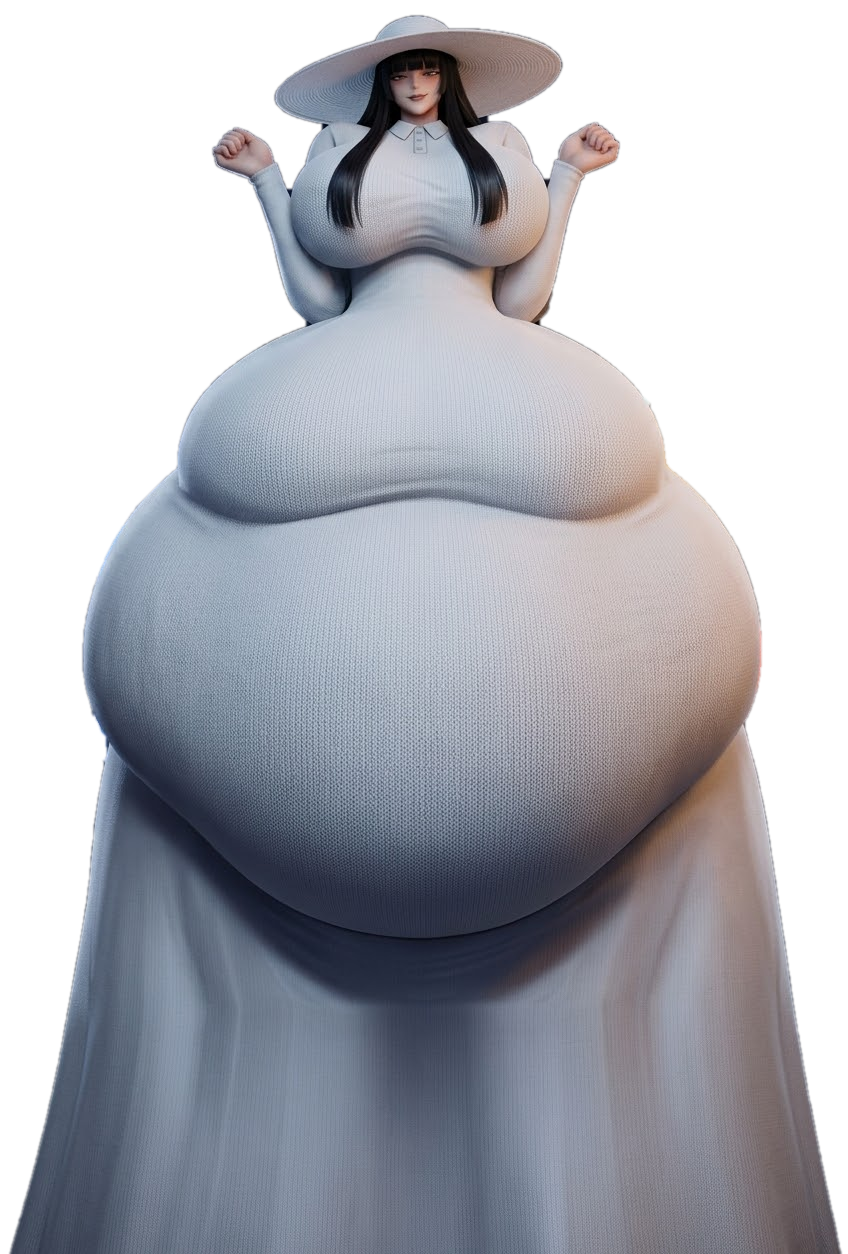
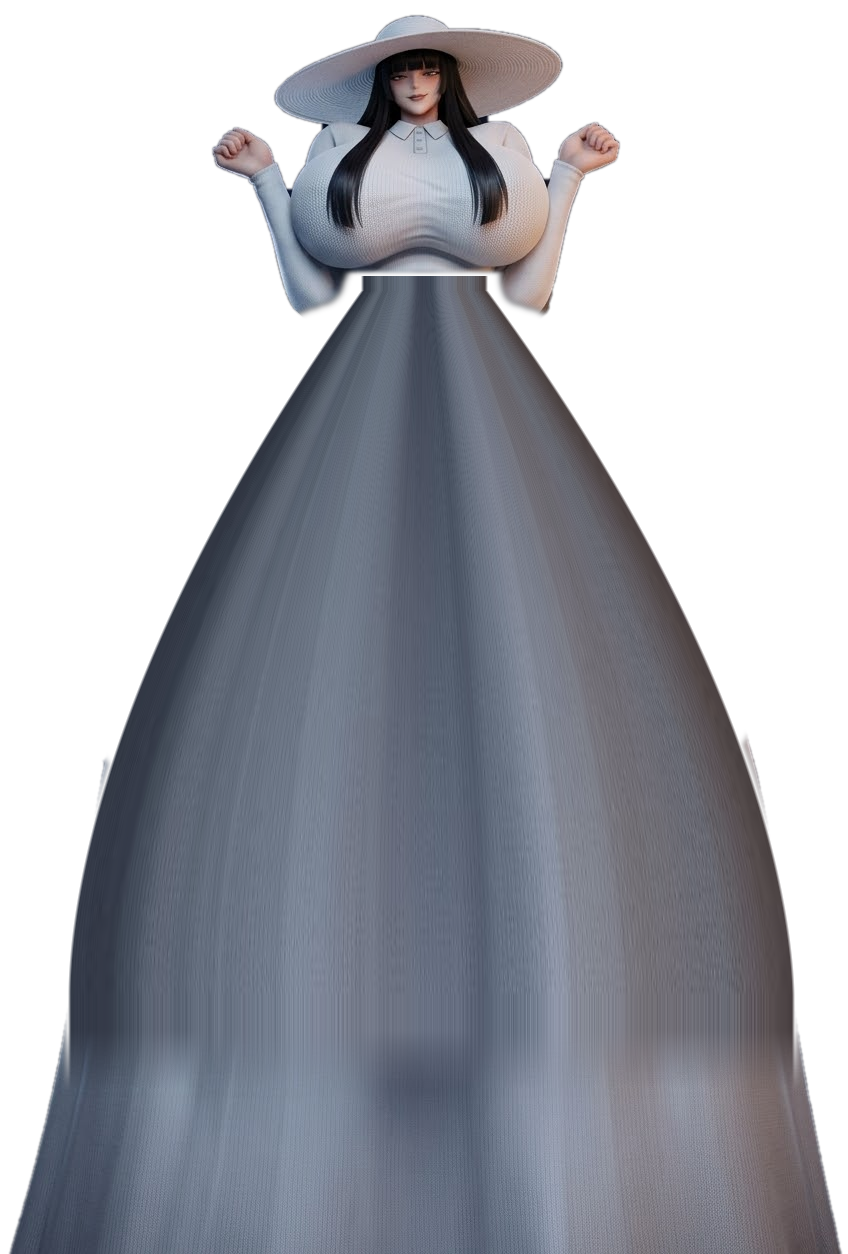
お腹が大きくなった時に元のお腹が見える不具合を修正
- 下半身レイヤー(body.png)から元のお腹を消し、ワンピースの続き(スカート生地)で埋めた
- お腹の揺れ(つぶれ)を控えめにして形が丸く保たれるように
- 検証用スクリプト tools/verify_belly.js を追加

diff --git a/tools/verify_belly.js b/tools/verify_belly.js
@@ -1,0 +1,24 @@
+// Screenshots at several belly levels and wobble phases while walking: node tools/verify_belly.js
+const puppeteer = require('puppeteer-core');
+const PORT = process.env.PORT || 8932;
+(async () => {
+  const b = await puppeteer.launch({ executablePath: '/usr/bin/google-chrome', headless: 'new', args: ['--use-gl=angle', '--use-angle=swiftshader', '--enable-unsafe-swiftshader', '--autoplay-policy=no-user-gesture-required', '--no-sandbox'] });
+  const p = await b.newPage(); await p.setViewport({ width: 1280, height: 720 });
+  const errs = []; p.on('console', m => { if (m.type() === 'error') errs.push(m.text()); }); p.on('pageerror', e => errs.push(e.message));
+  await p.goto(`http://localhost:${PORT}/`); await p.waitForFunction('window.__ready === true', { timeout: 90000 });
+  await p.click('#startBtn'); await new Promise(r => setTimeout(r, 1500));
+  const sleep = ms => new Promise(r => setTimeout(r, ms));
+  for (const lvl of [1, 3, 6, 10]) {
+    await p.evaluate((lvl) => { const d = window.__dbg; while (d.H.stage < lvl - 1) d.stageUp(); d.H.state = 'grow'; d.H.stateT = 0.01; }, lvl);
+    await sleep(3500);
+    for (let k = 0; k < 3; k++) {
+      await p.evaluate(() => { const { H, player } = window.__dbg; player.inv = 99; const R = 0.92 * 340 / 1254 * H.height * H.bodyS * H.bellyS; H.pos.set(player.pos.x, 0, player.pos.z - (14 + R * 2.6)); H.state = 'chase'; H.vel.set(0, 0, 3); player.yaw = 0; player.pitch = 0.18 + Math.min(0.35, H.stage * 0.03); });
+      await sleep(400 + k * 230);
+      if (k === 2) await p.evaluate(() => { const J = window.__dbg.H.jig; J.vy += 2.5; J.vx += 2.2; J.rip = 1.5; });
+      await sleep(k === 2 ? 90 : 0);
+      const info = await p.evaluate(() => { const { H } = window.__dbg; return { st: H.stage + 1, jy: +H.jig.y.toFixed(3), jx: +H.jig.x.toFixed(3), walk: +H.walk.toFixed(2), belly: +H.bellyS.toFixed(2) }; });
+      const f = `shots/belly_L${lvl}_${k}.png`; await p.screenshot({ path: f }); console.log(f, JSON.stringify(info));
+    }
+  }
+  console.log('ERRORS:', errs.length ? errs.join('\n') : 'none'); await b.close();
+})();

diff --git a/js/main.js b/js/main.js
@@ -738,7 +738,7 @@ function updateHasshaku(dt) {
   const prev = H.phase; H.phase += dt * Math.max(H.speed, 0.0) / stride * Math.PI;
   if (Math.floor(prev / Math.PI) !== Math.floor(H.phase / Math.PI) && H.walk > 0.2) { // footfall
     const d = dist; const it = clamp((1.4 - d / 45) * (0.6 + H.stage * 0.12), 0.05, 1.6);
-    SFX.step(Math.min(it, 1)); addShake(0.12 * it); jiggle(0.03 + 0.006 * H.stage, 0.035); puff(H.pos.x, 0.2, H.pos.z, 2, R * 0.6);
+    SFX.step(Math.min(it, 1)); addShake(0.12 * it); jiggle(0.03 + 0.002 * Math.min(H.stage, 10), 0.03); puff(H.pos.x, 0.2, H.pos.z, 2, R * 0.6);
   }
   // growth springs
   H.bellyV += ((H.bellyT - H.bellyS) * 30 - H.bellyV * 5) * dt; H.bellyS += H.bellyV * dt;
@@ -746,7 +746,7 @@ function updateHasshaku(dt) {
   // belly jiggle spring (bigger belly = slower, heavier wobble)
   const k = 70 / Math.sqrt(H.bellyS * H.bodyS), c = 3.2;
   const J = H.jig; J.vy += (-J.y * k - J.vy * c) * dt; J.y += J.vy * dt; J.vx += (-J.x * k - J.vx * c) * dt; J.x += J.vx * dt; J.rip *= Math.exp(-dt * 2.2);
-  J.y = clamp(J.y, -0.12, 0.12); J.x = clamp(J.x, -0.2, 0.2);
+  J.y = clamp(J.y, -0.07, 0.07); J.x = clamp(J.x, -0.09, 0.09); // keep wobble soft so the shape stays round
   // expression by mood
   const mood = H.stage + H.irr;
   if (H.state === 'chase') setExpr(mood < 0.55 ? 'smile' : mood < 2.6 ? 'irritated' : 'angry');

diff --git a/tools/make_body_nobelly.py b/tools/make_body_nobelly.py
@@ -1,0 +1,35 @@
+# Remove the original belly from the lower-body layer (body.png) so it can never peek out
+# behind the animated/scaled belly layer. The hidden area is replaced by a plausible dress
+# continuation (waist flaring to the skirt), built from real skirt fabric pixels.
+import numpy as np, cv2
+from PIL import Image
+SRC='/workspace/cut_full.png' if __import__('os').path.exists('/workspace/cut_full.png') else '/tmp/body_orig.png'
+full=np.array(Image.open(SRC).convert('RGBA')).astype(np.float32)
+H,W=full.shape[:2]
+u2=np.array(Image.open('/workspace/cut_u2net.png'))[:,:,3]
+m=(u2>12).astype(np.uint8)*255
+m=cv2.dilate(m,np.ones((15,15),np.uint8))
+yy,xx=np.mgrid[0:H,0:W].astype(np.float32)
+m=m.astype(np.float32)/255
+m=cv2.GaussianBlur(m,(0,0),2.5)
+Y0,Y1=290.0,995.0
+t=np.clip((yy-Y0)/(Y1-Y0),0,1)
+s=1-(1-t)**1.7
+hw=62+(362-62)*s; cx=424+7*t
+band=((yy>=272)&(yy<=1090)).astype(np.float32)*np.clip((1090-yy)/60,0,1)*np.clip((hw+8-np.abs(xx-cx))/6,0,1)
+m=np.maximum(m*(yy>=272),band)
+m=cv2.GaussianBlur(m,(0,0),2.0)
+inside=np.clip((hw-np.abs(xx-cx))/3.0+0.5,0,1)*(yy>=Y0-14)
+# fabric from the visible skirt: map each hidden pixel to a skirt pixel at the same relative x
+ys=np.clip(1095+t*120,0,H-1)
+skirt_hw=np.interp(ys,[1000,1250],[367,414]); skirt_cx=np.interp(ys,[1000,1250],[431,425])
+xs=np.clip(skirt_cx+(xx-cx)/np.maximum(hw,1)*skirt_hw*0.9,0,W-1)
+fab=cv2.remap(full[:,:,:3],xs.astype(np.float32),ys.astype(np.float32),cv2.INTER_LINEAR)
+shade=(0.80+0.20*t)[...,None]*(1-0.25*(np.abs(xx-cx)/np.maximum(hw,1))**2)[...,None]
+fab=fab*shade
+out=full.copy()
+out[:,:,:3]=full[:,:,:3]*(1-m[...,None])+fab*m[...,None]
+out[:,:,3]=full[:,:,3]*(1-m)+255*inside*m
+out[:,:,3]=np.minimum(out[:,:,3],np.maximum(full[:,:,3],255*inside))
+Image.fromarray(np.clip(out,0,255).astype(np.uint8)).save('/workspace/hasshaku-game/assets/img/body.png',optimize=True)
+prev=Image.fromarray(np.clip(out,0,255).astype(np.uint8)); bg=Image.new('RGBA',prev.size,(255,0,255,255)); bg.alpha_composite(prev); bg.convert('RGB').resize((424,627)).save('/workspace/hsw/body_nobelly.jpg')
